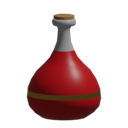
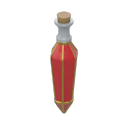
Add a greater healing potion and remodel both potion bottles
Greater Healing Potion heals 12d4 — double the common potion's 6d4 at
every point of the range, not just on average — for 2.5x the price and
2.5x the weight. It reuses the healing_potion category, so the server's
use_effect dispatch and the client tooltip need no changes. Rica sells
it alongside the common one.

Both bottles are new Meshy assets that read as a matched pair: the same
gold ribs and white collar, same 0.30m height, the greater one three
times as wide so the tier difference is legible from the silhouette
alone. They replace an old Sketchfab potion whose provenance was never
recorded.

Take the models from Meshy's GLB packages rather than its OBJ zips.
OBJ has no PBR slots, so those zips ship base colour alone and the gold
ribs come out as flat yellow. Rebuild whetstone_oil from GLB for the
same reason. Icons now render against a grey world — metal reflects
nothing and goes black without one, and film_transparent keeps the
background clear regardless.

Terrain props already reference catalog id health_potion, so that id
stays put and only its model path moves.

Claude-Session: https://claude.ai/code/session_011PaH9U5pahWipjXgDPowuu

Changed region(s): [[0.1875, 0.0625, 0.8125, 0.9688]]

diff --git a/doc/assets/items.md b/doc/assets/items.md
@@ -78,8 +78,12 @@
     - 원화는 ChatGPT 이미지 생성 (ChatGPT Pro 20x, 2026-08-13) ![원화](../images/items/tip_hat.png)
 - phoenix_talisman.glb (불사조의 부적 — 죽은 자리에서 부활하는 소모품용) — Meshy.ai (유료 생성, 2026-08-19, "Sunfire Phoenix Table…" — 다운로드 파일명 기준, 제목 잘림). 완전 소유권·상업 OK (characters.md License 참조). OBJ를 Blender로 임포트해 높이 0.30m로 스케일 적용(0.129×0.30×0.029m, health_potion 0.30m와 같은 높이), X축 +90° 회전으로 석판을 세우고 문양 면을 -Y로(Meshy 산출물은 눕힌 자세), 원점=바닥 중심, 텍스처 2048²→512²로 축소, emissive 텍스처 없음(MTL `Ke 0`, Emission 0 확인, export 후 emissiveFactor 없음). OBJ에 metallic/roughness 맵이 없어 Principled metallic 0·roughness 0.5 기본값. 아이콘은 Cycles 직교 측면·위 각도 렌더 512²→128² — 가늘고 긴 석판이라 렌더용으로만 25° 뒤로 눕히고 30° 롤을 줘 대각선 구도로 문양이 보이게 함, GLB는 세운 자세 그대로 (2026-08-20). items.csv 등록(소모품·무게 0.3·basePrice 5000 — 던전을 다시 와야 하는 수고를 아끼는 값이라 티어 2 무기의 절반·회복 물약 8개 값, 사망 대화상자에서 사용하면 제자리 부활 — doc/COMBAT.md). Rica 카탈로그 판매 + 월드 드랍 0.2%
     - 원화는 ChatGPT 이미지 생성 (ChatGPT Pro 20x, 2026-08-20) ![원화](../images/items/phoenix_talisman.png)
-- whetstone_oil.glb / whetstone_oil.png — Meshy.ai (유료 생성, 2026-08-20, "Knight's Elixir" — 다운로드 파일명 기준). 완전 소유권·상업 OK (characters.md License 참조). OBJ를 Blender로 임포트해 높이 0.28m로 스케일 적용(0.154×0.280×0.155m, cape_dye 병 0.265m와 healing_potion 0.30m 사이), 소스가 자체 Y축으로 누워 있어 X축 +90°로 세우고 Z축 35°를 먼저 먹여 검·방패 문양이 아이콘 카메라를 보게 함(요 각도 스윕으로 결정), 원점=바닥 중심, 텍스처 2048²→512²로 축소, emissive 없음 확인(MTL `Ke 0`, export 후 emissiveFactor 없음). OBJ에 metallic/roughness 맵이 없어 Principled metallic 0·roughness 0.35(유리병 + 은장식). 아이콘은 Cycles 직교 측면·위 각도 렌더 512²→128² (2026-08-20). items.csv 등록(reagent·무게 0.2·basePrice 10000 — 인챈트 주문서를 읽을 때마다 1병 소모, doc/ENCHANT.md). Rica 카탈로그 판매
+- whetstone_oil.glb / whetstone_oil.png — Meshy.ai (유료 생성, 2026-08-20, "Knight's Elixir" — 다운로드 파일명 기준). 완전 소유권·상업 OK (characters.md License 참조). **GLB로 다시 받아 2026-08-22에 교체** — 처음엔 OBJ 패키지로 받아 `map_Kd`만 있었고 은장식·유리가 금속으로 반사하지 않았다. GLB에는 base_color·metallic_roughness·normal 3장이 다 들어 있고 emissive는 없다. Blender로 임포트해 높이 0.28m로 스케일 적용(0.154×0.280×0.159m, cape_dye 병 0.265m와 healing_potion 0.30m 사이), 소스가 자체 Y축으로 누워 있어 세운 자세로 회전 적용하고 Z축 40°를 먹여 검·방패 문양이 아이콘 카메라를 보게 함(45° 간격 전방위 + 35~50° 미세 스윕으로 결정), 원점=바닥 중심, 텍스처 3장 모두 2048²→512²로 축소(JPEG 유지). 아이콘은 Cycles 직교 측면·위 각도 렌더 512²→128², 금속이 반사할 대상이 있어야 해서 회색 월드(0.55/0.57/0.62, strength 1.2) — `film_transparent`라 배경은 투명 (2026-08-22). items.csv 등록(reagent·무게 0.2·basePrice 10000 — 인챈트 주문서를 읽을 때마다 1병 소모, doc/ENCHANT.md). Rica 카탈로그 판매
     - 원화는 ChatGPT 이미지 생성 (ChatGPT Pro 20x, 2026-08-20) ![원화](../images/items/whetstone_oil.png)
+- healing_potion.glb / healing_potion.png (회복 물약) — Meshy.ai (유료 생성, 2026-08-22, "Crimson Elixir Bottle" — 다운로드 파일명 기준). 완전 소유권·상업 OK (characters.md License 참조). **GLB로 받았다** — OBJ 패키지는 포맷상 `map_Kd`만 담아 나오므로 metallic/roughness·normal 맵이 빠진다(금테가 금속으로 안 보인다). GLB에는 base_color·metallic_roughness·normal 3장이 다 들어 있고 emissive는 없다. Blender로 임포트해 높이 0.30m로 스케일 적용(0.081×0.300×0.072m, greater_healing_potion과 같은 높이), 소스가 X축 -90°로 누워 있어 세운 자세로 회전 적용, 원점=바닥 중심, 텍스처 3장 모두 2048²→512²로 축소(JPEG 유지). 아이콘은 Cycles 직교 측면·위 각도 렌더 512²→128², 금속 재질이 반사할 대상이 있어야 해서 회색 월드(0.55/0.57/0.62, strength 1.2)를 깔았다 — `film_transparent`라 배경은 그대로 투명하다 (2026-08-22). 유래 기록이 없던 Sketchfab 출처 구 애셋(`health_potion.glb` / `healing_potion.png`)을 상급 물약과 한 쌍으로 대체했다 — 구 애셋은 트리에서 제거
+    - 원화는 ChatGPT 이미지 생성 (ChatGPT Pro 20x, 2026-08-22) ![원화](../images/items/healing_potion.png)
+- greater_healing_potion.glb / greater_healing_potion.png (상급 회복 물약) — Meshy.ai (유료 생성, 2026-08-22, "Regal Crimson Flask" — 다운로드 파일명 기준). 완전 소유권·상업 OK (characters.md License 참조). **GLB로 받았다** — OBJ 패키지는 포맷상 `map_Kd`만 담아 나오므로 metallic/roughness·normal 맵이 빠진다(금테가 금속으로 안 보인다). GLB에는 base_color·metallic_roughness·normal 3장이 다 들어 있고 emissive는 없다. Blender로 임포트해 높이 0.30m로 스케일 적용(0.226×0.300×0.218m, healing_potion과 같은 높이 — 폭이 3배라 통이 커 보이는 것으로 등급 차를 낸다), 소스가 X축 -90°로 누워 있어 세운 자세로 회전 적용, 원점=바닥 중심, 텍스처 3장 모두 2048²→512²로 축소(JPEG 유지). 아이콘은 Cycles 직교 측면·위 각도 렌더 512²→128², 금속 재질이 반사할 대상이 있어야 해서 회색 월드(0.55/0.57/0.62, strength 1.2)를 깔았다 — `film_transparent`라 배경은 그대로 투명하다 (2026-08-22). 같은 날 healing_potion과 한 쌍으로 새로 만들어, 유래 기록이 없던 Sketchfab 출처 구 애셋(`health_potion.glb`)을 대체했다 — 지형에 이미 놓인 프롭이 참조하는 catalog id `health_potion`은 그대로 두고 모델 경로만 이 파일로 옮겼다. items.csv 등록(회복 12d4·무게 1.25·basePrice 1500 — 일반 물약의 회복량 2배, 가격·무게 2.5배). Rica 카탈로그 판매
+    - 원화는 ChatGPT 이미지 생성 (ChatGPT Pro 20x, 2026-08-22) ![원화](../images/items/greater_healing_potion.png)
 - wool_cape.png — 자체 제작. 입은 망토는 런타임에 만드는 버텍스 시트(client/src/lib/effects/cape-rig.ts)라, 아이콘용 메시를 Blender 스크립트로 따로 모델링했다: 같은 테이퍼 시트에 주름·말린 칼라·놋쇠 클래스프. Cycles 직교 측면·위 각도 렌더 512²→128² (`tools/blender-scripts/render_cape_icon.py wool_cape`, 2026-08-17). 천 색은 items.csv `capeColor`에서 읽으므로 새 망토도 같은 스크립트로 렌더한다. 외부 애셋 없음 — 라이선스 문제 없음
 - cape_dye.glb / cape_dye.png — 자체 제작(절차적). [tools/blender-scripts/render_dye_icon.py](../../tools/blender-scripts/render_dye_icon.py)가 프로파일을 회전시켜 병을 만들고 GLB(0.16×0.27×0.16m, 원점=바닥 중심)와 아이콘 Cycles 렌더 512²→128²를 함께 쓴다. 외부 애셋 없음 (2026-08-18)
 - cape_transfer_kit.glb / cape_transfer_kit.png — 자체 제작(절차적). [tools/blender-scripts/render_transfer_kit_icon.py](../../tools/blender-scripts/render_transfer_kit_icon.py)가 프리미티브(말린 밀랍 시트 + 끈 2줄 + 고착제 단지)로 만들고 GLB(0.24×0.09×0.07m, 눕힌 자세)와 아이콘 Cycles 렌더 512²→128²를 함께 쓴다. 외부 애셋 없음 (2026-08-18)

diff --git a/doc/TODO.md b/doc/TODO.md
@@ -174,11 +174,8 @@
 - 스토커 죽는 애니 이상함
 - 몬스터가 죽을 때 나는 소리
 - 시간 위짓에 던전 층 수 표시
-- 더 큰 회복 물약
 - 숨겨진 계단
-- 가드 36인데 마지막층에서 거의 무적
 - bag of holdings
-- 마을로 되돌려 보내는 1분 좀 짧음
 - [x] 다른 유저가 박스를 부술 때 소리나지 않음
 
 # 폐지
